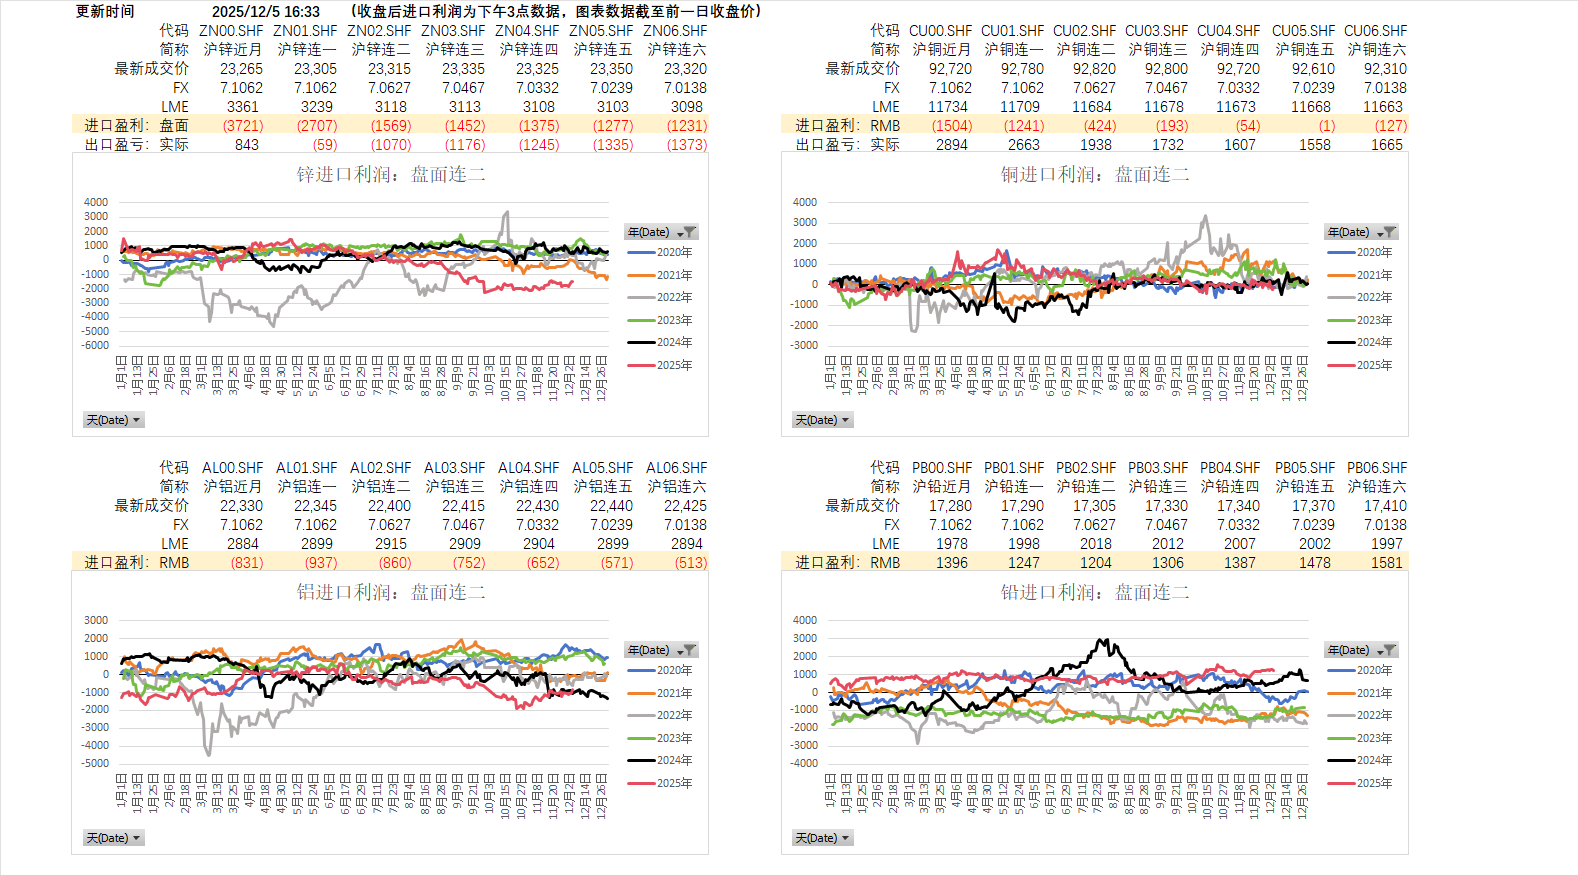
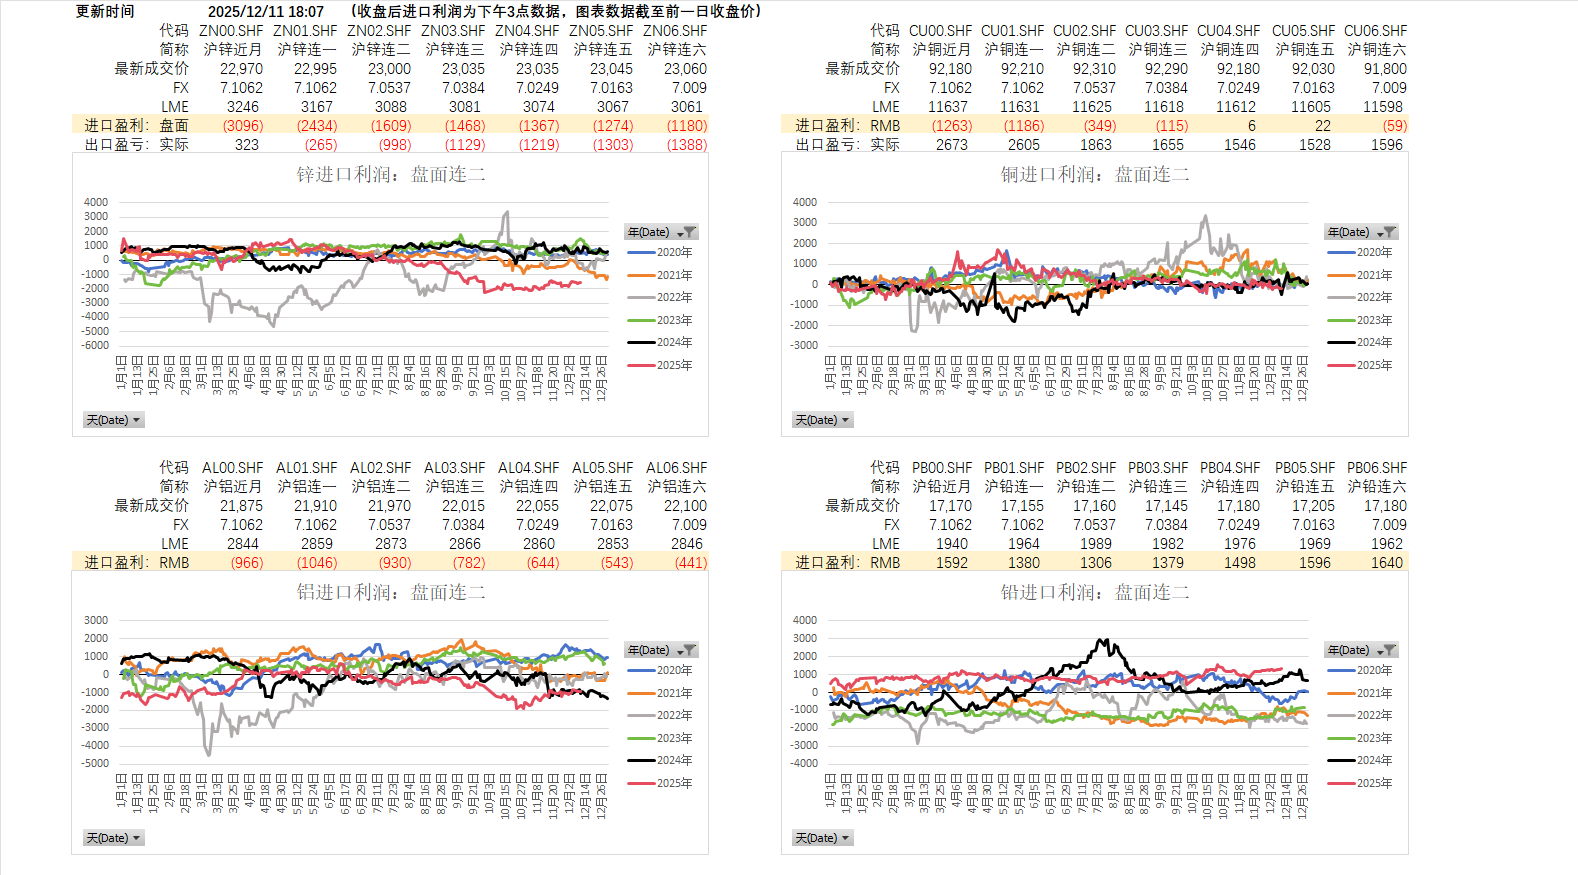
LAPTOP-KRS16UJL 2025-12-15:9:23:44

diff --git a/锌分析20251214.md b/锌分析20251214.md
@@ -1,7 +1,7 @@
 ## 总结
 
 
-- 策略：<font color = red>做空LME3100-3200建仓，目标2800以内。加工费（**内贸持续下降**，**外贸继续有所下调**）导致冶炼利润收窄（但仍然较往年中值仍高250每吨，整体大厂仍有利润主要因为高硫酸和银价，小厂基本没有利润），LME结构100b以上震荡，多头控盘不撤，国内据了解12月出口1-2wt，本周继续看到LME交仓继续体现，中期看海外冶炼边际复产LME低库存有望解决。</font>安泰科预计明年供应+30w，需求+20w。
+- 策略：<font color = red>做空LME3100-3200建仓，目标2800以内，空估值等驱动。加工费（**内贸持续下降**，**外贸继续有所下调**）但冶炼利润因副产品收益走强（较往年中值仍高1000每吨，整体大厂仍有高利润主要因为高硫酸和银价，小厂基本没有利润），LME结构100b以上震荡，多头控盘不撤，国内据了解12月出口1-2wt，本周继续看到LME交仓继续体现，中期看海外冶炼边际复产LME低库存有望解决。</font>安泰科预计明年供应+30w，需求+20w。
 - 主要矛盾：目前过剩矛盾收窄，加工费受冬季补库和银价飙升回落，现阶段港口锌精矿库存高于往年同期，锌锭受出口带动国内去库回到季节性：**考虑到绝对价格和加工费相关性最强，目前谨慎做空。
 
 - - **国内加工费出现边际回落，目前国产TC最高1800到厂，1600附近是主流成交区间，2000加工费在300硫酸下（具备较强综合回收能力的大厂）现金流利润打平，小厂3000打平，因此目前加工费仅在锌价快速下跌时期冶炼产量扰动概率大，震荡下行期间扰动小。产量从25年5月份之后开始同比开始转正。
@@ -12,6 +12,7 @@
 - - 海关数据显示1-10月进口锌精矿来源国：俄罗斯和刚果均有流入，10月澳矿来的少。
 - - **SMM国产TC 下调十二月（月度）-1000至2000；<font color = red>SMM周度tc-250至1600，但是成交区域间不平衡；SMM进口TC-7.19至50.56。**</font>
 - - LME锌库存+6.5k，新增注销仓单+0k，**本周继续看到交仓体现**。
+- - 12月冶炼产量环比-2w，考虑到出口减少，国内总供应预计持平11月。
 - - **镀锌板卷开工率周环比+0.6%至67%，成品库存开始加速去化*
 
 - - 消息面：**出口量级2w：紫金5-10k，南方4k，中金岭南4k，豫光3k；<font color = red>火烧云冶炼出产慢于预期，冶炼炉还是有问题，本周听说10k招标有成交，先款后货**</font>；万洋7月9k，8月15k-20k，9月20k；云铜已经爬产完。
